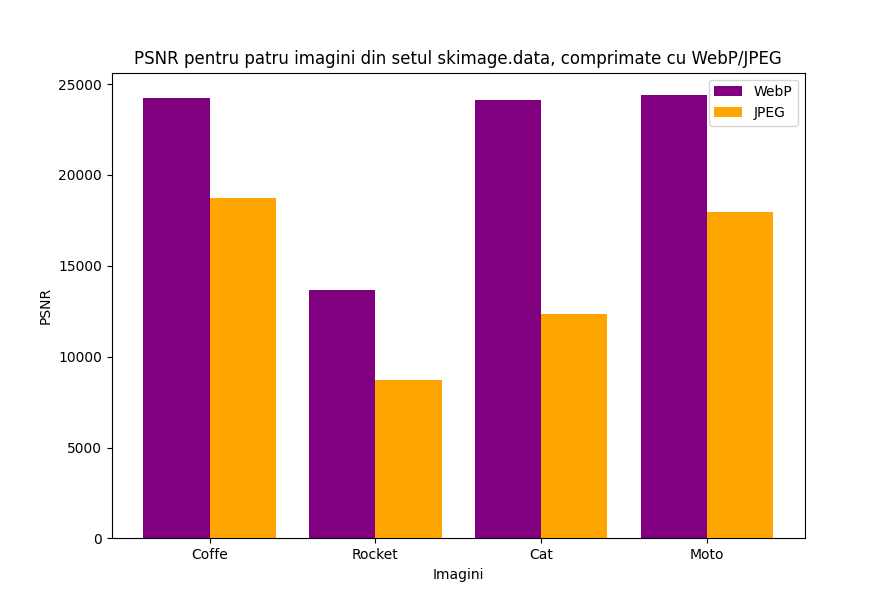
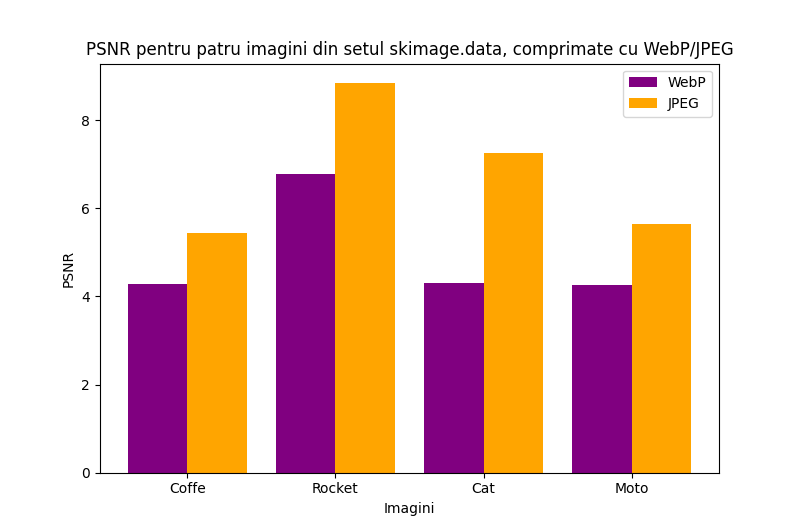
Proiect v2

diff --git a/Proiect_PS/main.py b/Proiect_PS/main.py
@@ -98,8 +98,8 @@ def main():
 
     plt.figure(3)
 
-    plt.bar(xAxis - w, statsWebP[:, 1], 2*w, label="WebP", color="purple")
-    plt.bar(xAxis + w, statsJPEG[:, 1], 2*w, label="JPEG", color="orange")
+    plt.bar(xAxis - w, statsWebP[:, 2], 2*w, label="WebP", color="purple")
+    plt.bar(xAxis + w, statsJPEG[:, 2], 2*w, label="JPEG", color="orange")
 
     plt.xticks(xAxis, x)
     plt.xlabel("Imagini")
